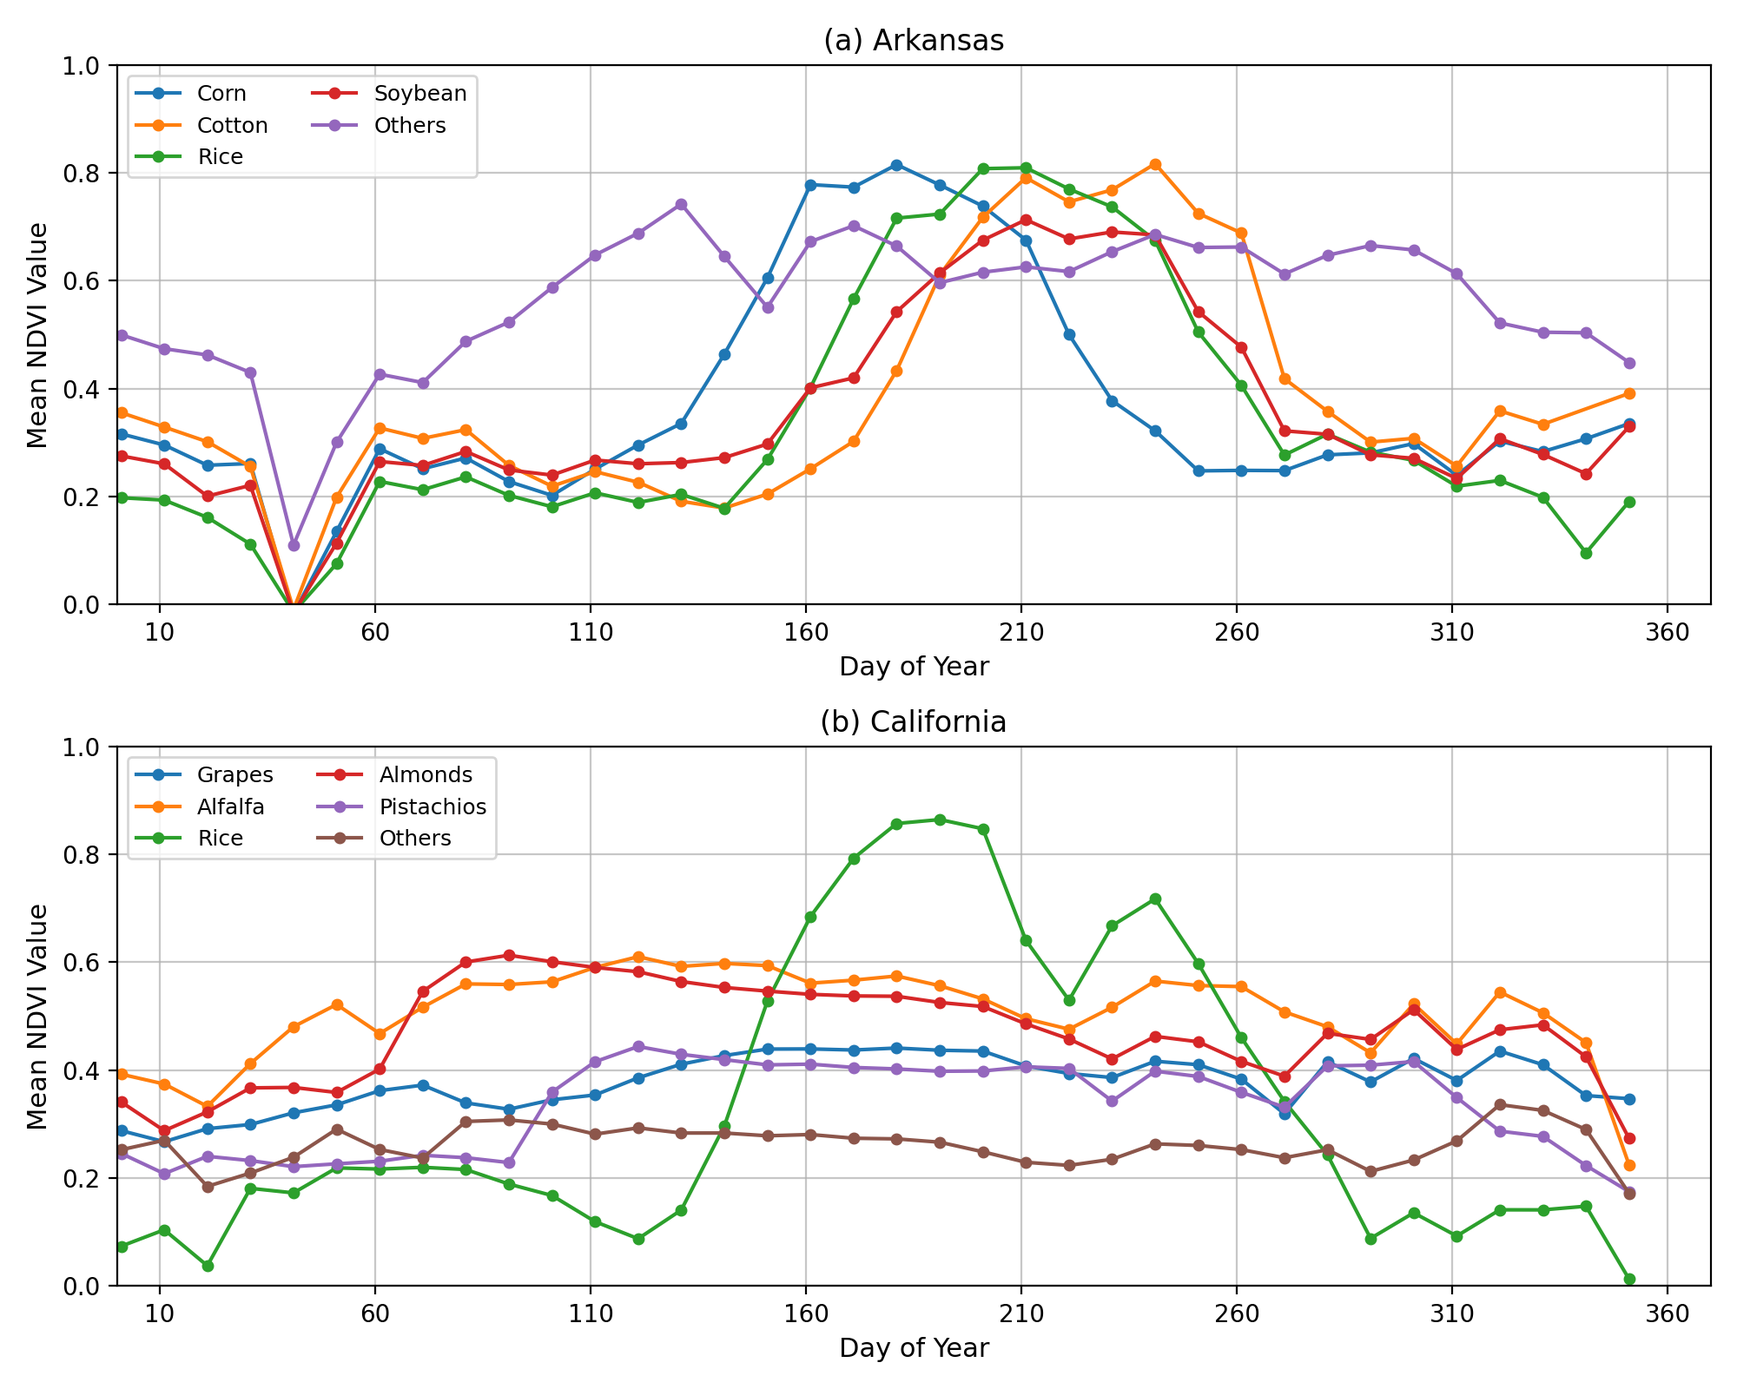
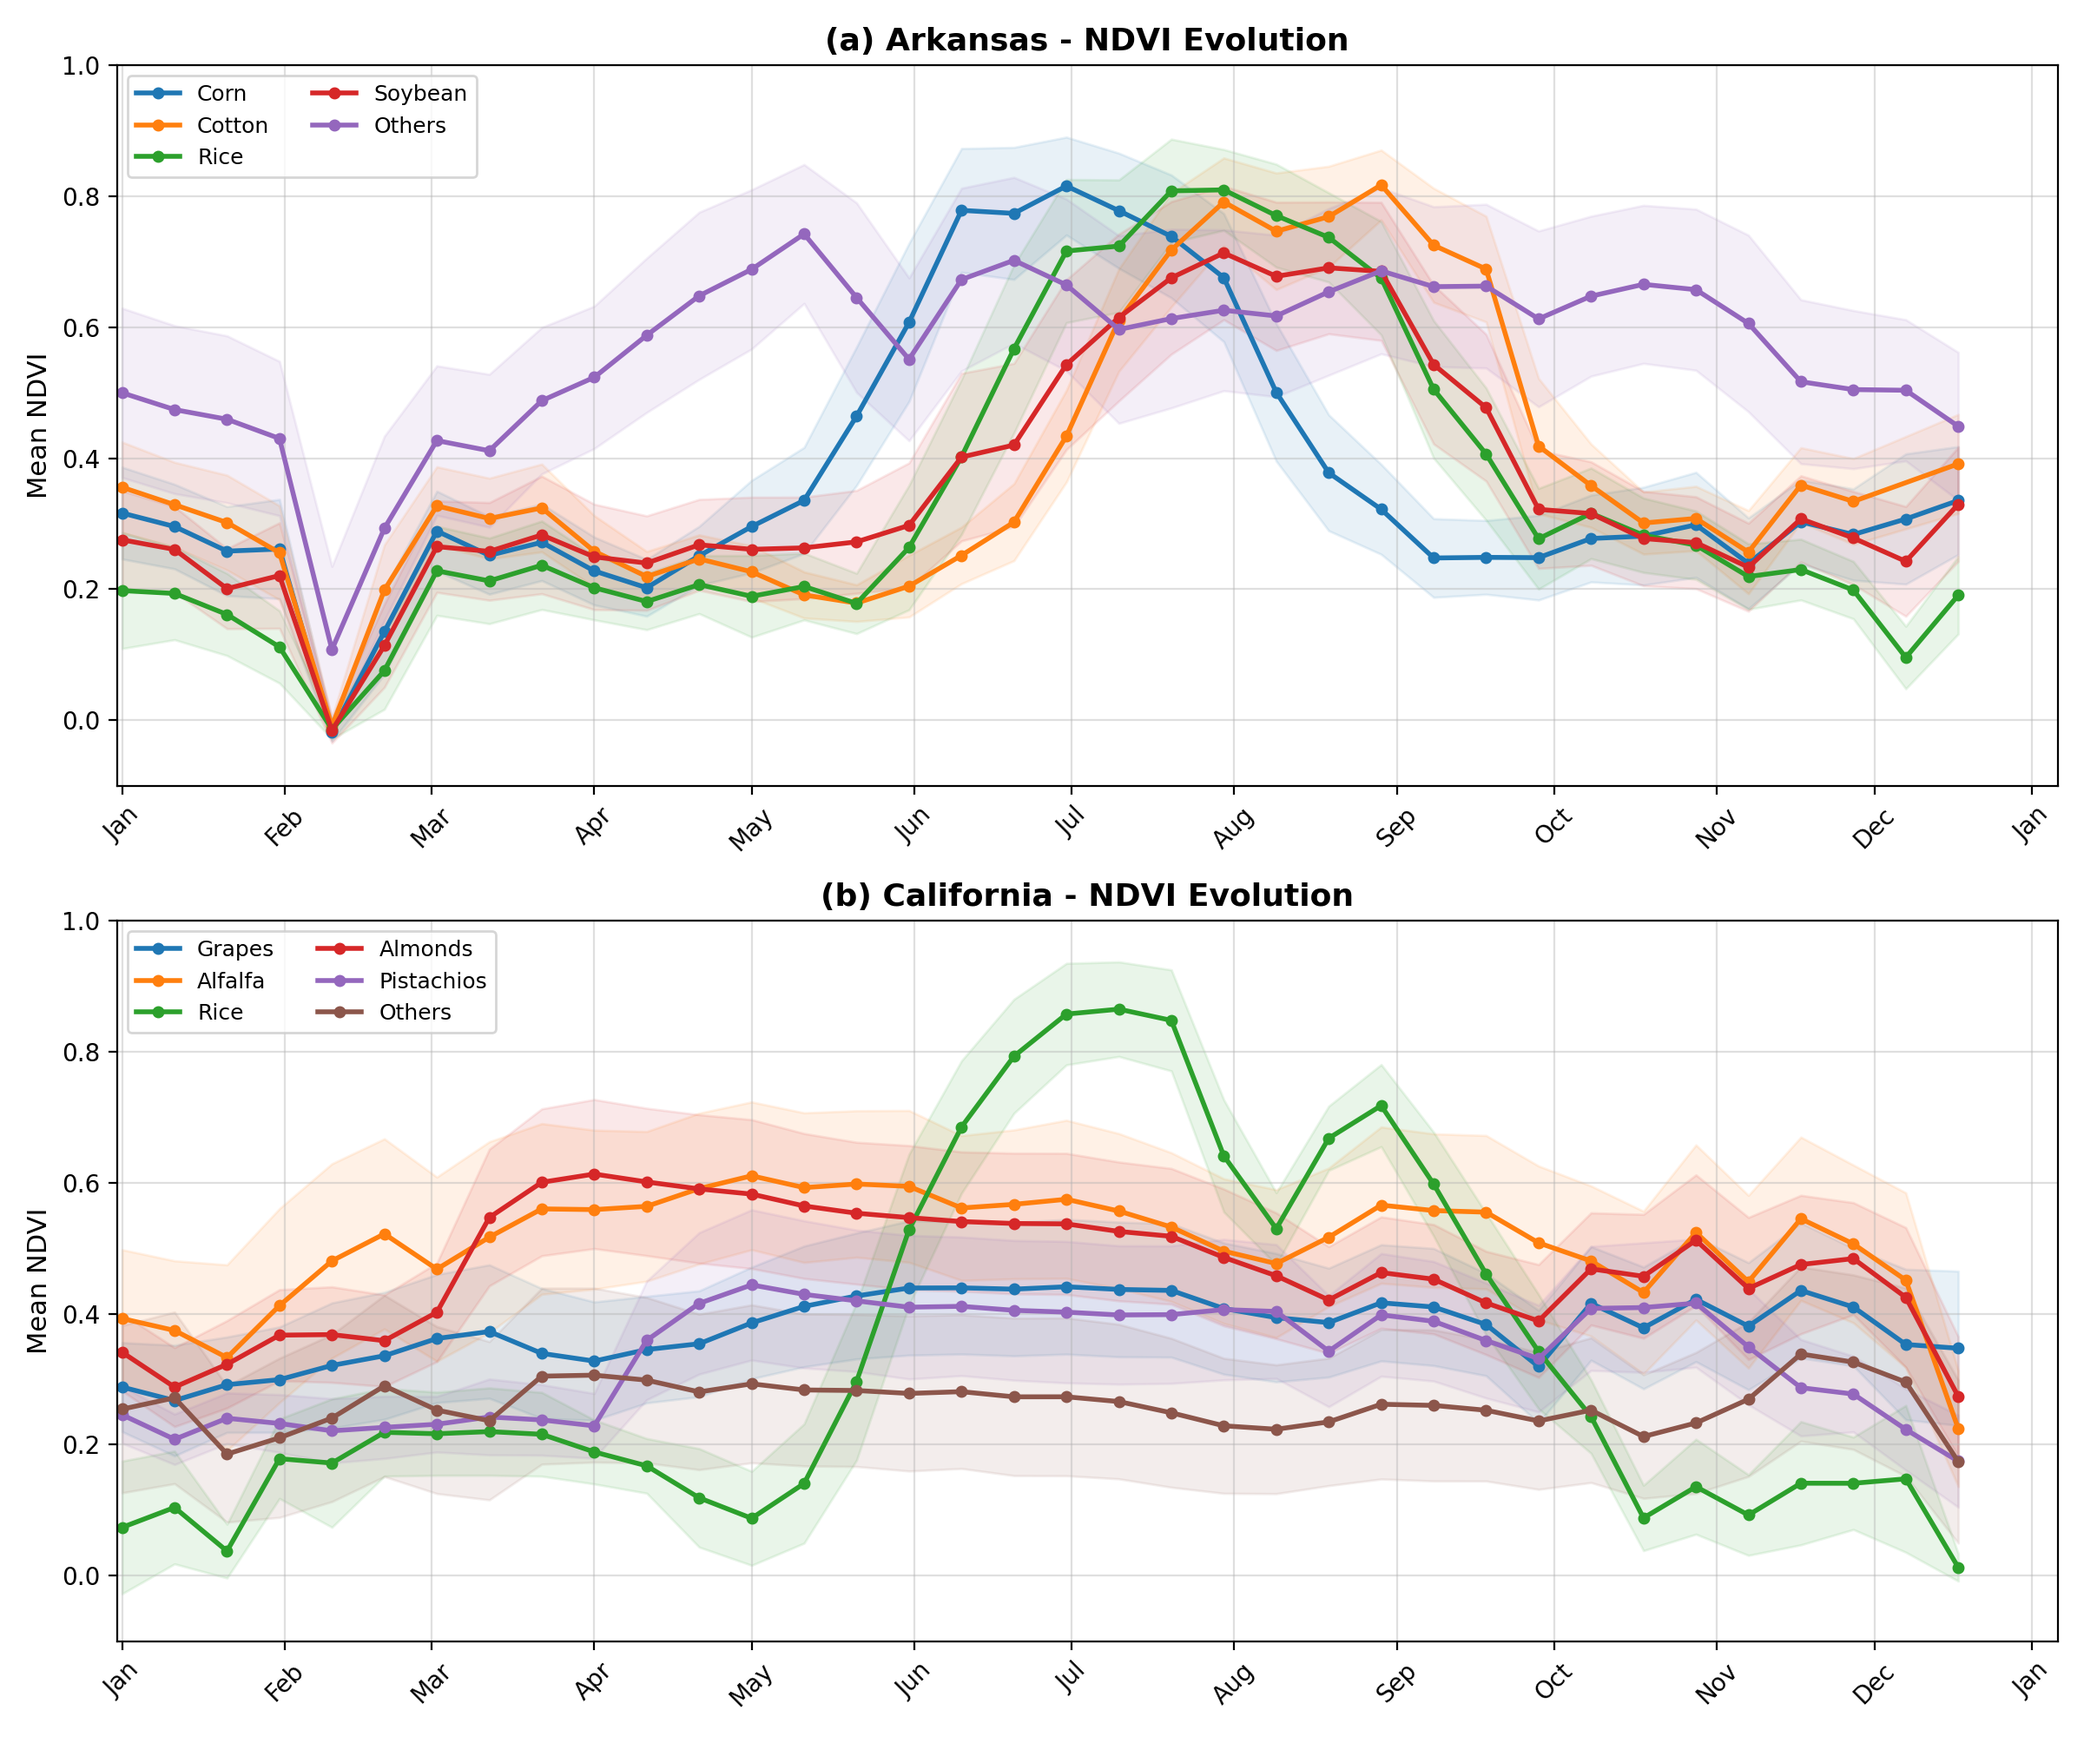
feat: add comprehensive data exploration visualization suite and improve data preprocessing pipelines

diff --git a/01_data_exploration.py b/01_data_exploration.py
@@ -32,58 +32,201 @@ CA_COLORS = {1: "#1f77b4", 3: "#ff7f0e", 2: "#2ca02c", 4: "#d62728", 5: "#9467bd
 BANDS = ["B2", "B3", "B4", "B5", "B6", "B7", "B8", "B8A", "B11", "B12"]
 BAND_NAMES = {
     "B2": "Blue", "B3": "Green", "B4": "Red",
-    "B5": "RE 1", "B6": "RE 2", "7": "RE 3",
+    "B5": "RE 1", "B6": "RE 2", "B7": "RE 3",
     "B8": "NIR", "B8A": "RE 4",
     "B11": "SWIR 1", "B12": "SWIR 2"
 }
 
 def load_state_data(state):
+    print(f"-> Loading data for {state}...")
     folder = f"MCTNet_{state.lower()}"
     pattern = os.path.join(DONNEES_DIR, folder, "*.csv")
     files = sorted(glob.glob(pattern))
-    if not files: return pd.DataFrame()
-    dfs = [pd.read_csv(f) for f in files]
+    # Filter out covariate files if they are in the same folder
+    files = [f for f in files if "covariates" not in f]
+    
+    if not files: 
+        print(f"Warning: No files found for {state}")
+        return pd.DataFrame()
+    
+    dfs = []
+    for f in files:
+        df_tmp = pd.read_csv(f)
+        dfs.append(df_tmp)
+    
     df_all = pd.concat(dfs, ignore_index=True)
     df_all["date"] = pd.to_datetime(df_all["date_str"])
     df_all["doy"]  = df_all["date"].dt.dayofyear
+    
+    # Missing data criteria: either all bands are zero OR valid flag is 0
     df_all["missing"] = ((df_all[BANDS] == 0).all(axis=1) | (df_all["valid"] == 0)).astype(int)
+    
     return df_all
 
 def add_vegetation_indices(df):
     if df.empty: return df
-    B4, B8, B2, B3 = df["B4"].replace(0, np.nan), df["B8"].replace(0, np.nan), df["B2"].replace(0, np.nan), df["B3"].replace(0, np.nan)
-    df["NDVI"] = (B8 - B4) / (B8 + B4 + 1e-8)
-    df["EVI"]  = 2.5 * (B8 - B4) / (B8 + 6 * B4 - 7.5 * B2 + 1 + 1e-8)
+    # Use small epsilon to avoid division by zero
+    eps = 1e-8
+    B2 = df["B2"].astype(float) / 10000.0
+    B3 = df["B3"].astype(float) / 10000.0
+    B4 = df["B4"].astype(float) / 10000.0
+    B8 = df["B8"].astype(float) / 10000.0
+    
+    df["NDVI"] = (B8 - B4) / (B8 + B4 + eps)
+    df["EVI"]  = 2.5 * (B8 - B4) / (B8 + 6 * B4 - 7.5 * B2 + 1.0 + eps)
+    
+    # Clip values to reasonable ranges
+    df["NDVI"] = df["NDVI"].clip(-1, 1)
+    df["EVI"] = df["EVI"].clip(-1, 2)
+    
     return df
 
-def plot_ndvi_timeseries(AR, CA):
-    fig, axes = plt.subplots(2, 1, figsize=(10, 8))
-    for ax, df, class_map, color_map, title in [(axes[0], AR, AR_CLASSES, AR_COLORS, "(a) Arkansas"), (axes[1], CA, CA_CLASSES, CA_COLORS, "(b) California")]:
+def plot_class_distribution(AR, CA):
+    print("-> Plotting Class Distribution...")
+    fig, axes = plt.subplots(1, 2, figsize=(14, 6))
+    
+    for ax, df, class_map, color_map, title in [
+        (axes[0], AR, AR_CLASSES, AR_COLORS, "Arkansas Class Distribution"),
+        (axes[1], CA, CA_CLASSES, CA_COLORS, "California Class Distribution")
+    ]:
         if df.empty: continue
-        # Optimisation : Sélectionner uniquement les colonnes nécessaires pour réduire la mémoire
-        df_valid = df[df["missing"] == 0][["doy", "NDVI", "label"]]
+        
+        # Count unique pixel_ids per label
+        dist = df.groupby("label")["pixel_id"].nunique().reset_index()
+        dist["class_name"] = dist["label"].map(class_map)
+        
+        # Sort by label order for consistency
+        dist = dist.sort_values("label")
+        
+        colors = [color_map.get(l, "#7f7f7f") for l in dist["label"]]
+        
+        sns.barplot(data=dist, x="class_name", y="pixel_id", palette=colors, ax=ax)
+        
+        # Add labels on top of bars
+        for i, v in enumerate(dist["pixel_id"]):
+            ax.text(i, v + (v * 0.02), f"{int(v)}", ha='center', fontweight='bold')
+            
+        ax.set_title(title, fontsize=14, fontweight='bold')
+        ax.set_xlabel("Crop Type", fontsize=12)
+        ax.set_ylabel("Number of Pixels", fontsize=12)
+        ax.grid(axis='y', linestyle='--', alpha=0.7)
+
+    plt.tight_layout()
+    plt.savefig(os.path.join(OUTPUT_DIR, "01_class_distribution.png"), dpi=200)
+    plt.close()
+
+def plot_missing_data_analysis(AR, CA):
+    print("-> Plotting Missing Data Analysis...")
+    fig, axes = plt.subplots(2, 1, figsize=(12, 8))
+    
+    for ax, df, title in [
+        (axes[0], AR, "Arkansas Missing Data Trend"),
+        (axes[1], CA, "California Missing Data Trend")
+    ]:
+        if df.empty: continue
+        
+        # Calculate percentage of missing data per DOY
+        missing_stats = df.groupby("doy")["missing"].mean() * 100
+        
+        ax.plot(missing_stats.index, missing_stats.values, color='red', marker='o', markersize=3, linewidth=1.5)
+        ax.fill_between(missing_stats.index, 0, missing_stats.values, color='red', alpha=0.1)
+        
+        ax.set_title(title, fontsize=13, fontweight='bold')
+        ax.set_ylabel("% Missing Data", fontsize=11)
+        ax.set_xlabel("Day of Year (DOY)", fontsize=11)
+        ax.set_ylim(0, 105)
+        ax.grid(True, linestyle='--', alpha=0.6)
+
+    plt.tight_layout()
+    plt.savefig(os.path.join(OUTPUT_DIR, "02_missing_data_analysis.png"), dpi=200)
+    plt.close()
+
+def plot_spectral_variability(AR, CA):
+    print("-> Plotting Spectral Variability...")
+    fig, axes = plt.subplots(1, 2, figsize=(16, 6))
+    
+    for ax, df, class_map, color_map, title in [
+        (axes[0], AR, AR_CLASSES, AR_COLORS, "Arkansas Spectral Profiles"),
+        (axes[1], CA, CA_CLASSES, CA_COLORS, "California Spectral Profiles")
+    ]:
+        if df.empty: continue
+        
+        # Use only valid observations
+        df_valid = df[df["missing"] == 0]
+        
+        for label, name in class_map.items():
+            df_cls = df_valid[df_valid["label"] == label]
+            if df_cls.empty: continue
+            
+            # Mean spectral values across all timesteps
+            spectral_mean = df_cls[BANDS].mean() / 10000.0
+            
+            ax.plot(BANDS, spectral_mean.values, label=name, color=color_map[label], marker='s', linewidth=2)
+            
+        ax.set_title(title, fontsize=14, fontweight='bold')
+        ax.set_ylabel("Reflectance", fontsize=12)
+        ax.set_xlabel("Sentinel-2 Bands", fontsize=12)
+        ax.set_ylim(0, 0.6)
+        ax.legend()
+        ax.grid(True, alpha=0.3)
+
+    plt.tight_layout()
+    plt.savefig(os.path.join(OUTPUT_DIR, "03_spectral_variability.png"), dpi=200)
+    plt.close()
+
+def plot_indices_timeseries(AR, CA, index_name="NDVI"):
+    print(f"-> Plotting {index_name} Timeseries...")
+    fig, axes = plt.subplots(2, 1, figsize=(12, 10))
+    
+    for ax, df, class_map, color_map, title in [
+        (axes[0], AR, AR_CLASSES, AR_COLORS, f"(a) Arkansas - {index_name} Evolution"),
+        (axes[1], CA, CA_CLASSES, CA_COLORS, f"(b) California - {index_name} Evolution")
+    ]:
+        if df.empty: continue
+        
+        df_valid = df[df["missing"] == 0]
         legend_order = [1, 2, 3, 4, 0] if "Arkansas" in title else [1, 3, 2, 4, 5, 0]
+        
         for cls in legend_order:
             if cls not in class_map: continue
             df_cls = df_valid[df_valid["label"] == cls]
             if df_cls.empty: continue
-            ndvi_by_doy = df_cls.groupby("doy")["NDVI"].mean()
-            ax.plot(ndvi_by_doy.index, ndvi_by_doy.values, label=class_map[cls], color=color_map[cls], linewidth=1.5, marker="o", markersize=4)
-        ax.set_title(title, fontsize=12)
-        ax.set_ylabel("Mean NDVI Value", fontsize=11)
-        ax.set_ylim(0, 1.0)
+            
+            # Group by DOY and calculate mean and std
+            stats = df_cls.groupby("doy")[index_name].agg(['mean', 'std'])
+            
+            ax.plot(stats.index, stats['mean'], label=class_map[cls], color=color_map[cls], linewidth=2, marker="o", markersize=4)
+            # Add subtle error bands
+            ax.fill_between(stats.index, stats['mean'] - 0.5*stats['std'], stats['mean'] + 0.5*stats['std'], color=color_map[cls], alpha=0.1)
+
+        ax.set_title(title, fontsize=13, fontweight='bold')
+        ax.set_ylabel(f"Mean {index_name}", fontsize=11)
+        ax.set_ylim(-0.1, 1.0 if index_name == "NDVI" else 1.2)
         ax.set_xlim(0, 370)
-        ax.set_xticks([10, 60, 110, 160, 210, 260, 310, 360])
-        ax.set_yticks([0, 0.2, 0.4, 0.6, 0.8, 1.0])
+        ax.set_xticks([1, 32, 60, 91, 121, 152, 182, 213, 244, 274, 305, 335, 365])
+        ax.set_xticklabels(['Jan', 'Feb', 'Mar', 'Apr', 'May', 'Jun', 'Jul', 'Aug', 'Sep', 'Oct', 'Nov', 'Dec', 'Jan'], rotation=45)
         ax.legend(fontsize=9, loc="upper left", ncol=2)
-        ax.grid(True, linestyle='-', alpha=0.7)
-        ax.set_xlabel("Day of Year", fontsize=11)
+        ax.grid(True, linestyle='-', alpha=0.4)
+
     plt.tight_layout()
-    plt.savefig(os.path.join(OUTPUT_DIR, "04_ndvi_timeseries.png"), dpi=200)
-    print("OK: Saved: 04_ndvi_timeseries.png (Paper Style)")
+    filename = f"04_{index_name.lower()}_timeseries.png"
+    plt.savefig(os.path.join(OUTPUT_DIR, filename), dpi=200)
+    plt.close()
 
 if __name__ == "__main__":
-    AR, CA = load_state_data("Arkansas"), load_state_data("California")
-    AR, CA = add_vegetation_indices(AR), add_vegetation_indices(CA)
-    plot_ndvi_timeseries(AR, CA)
-    print(f"OK: Exploration complete. Plots saved in {OUTPUT_DIR}/")
+    # 1. Load data
+    AR = load_state_data("Arkansas")
+    CA = load_state_data("California")
+    
+    # 2. Precompute Indices
+    AR = add_vegetation_indices(AR)
+    CA = add_vegetation_indices(CA)
+    
+    # 3. Perform Analysis
+    plot_class_distribution(AR, CA)
+    plot_missing_data_analysis(AR, CA)
+    plot_spectral_variability(AR, CA)
+    plot_indices_timeseries(AR, CA, index_name="NDVI")
+    plot_indices_timeseries(AR, CA, index_name="EVI")
+    
+    print(f"\n[SUCCESS] Exploration complete. All plots saved in: {os.path.abspath(OUTPUT_DIR)}")
